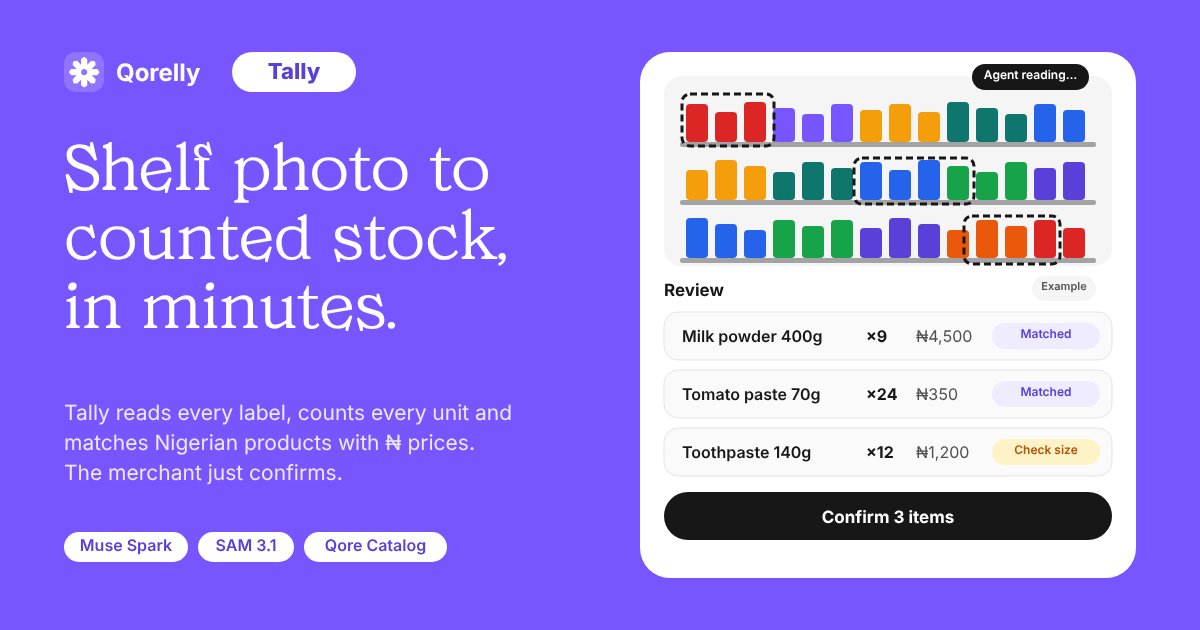
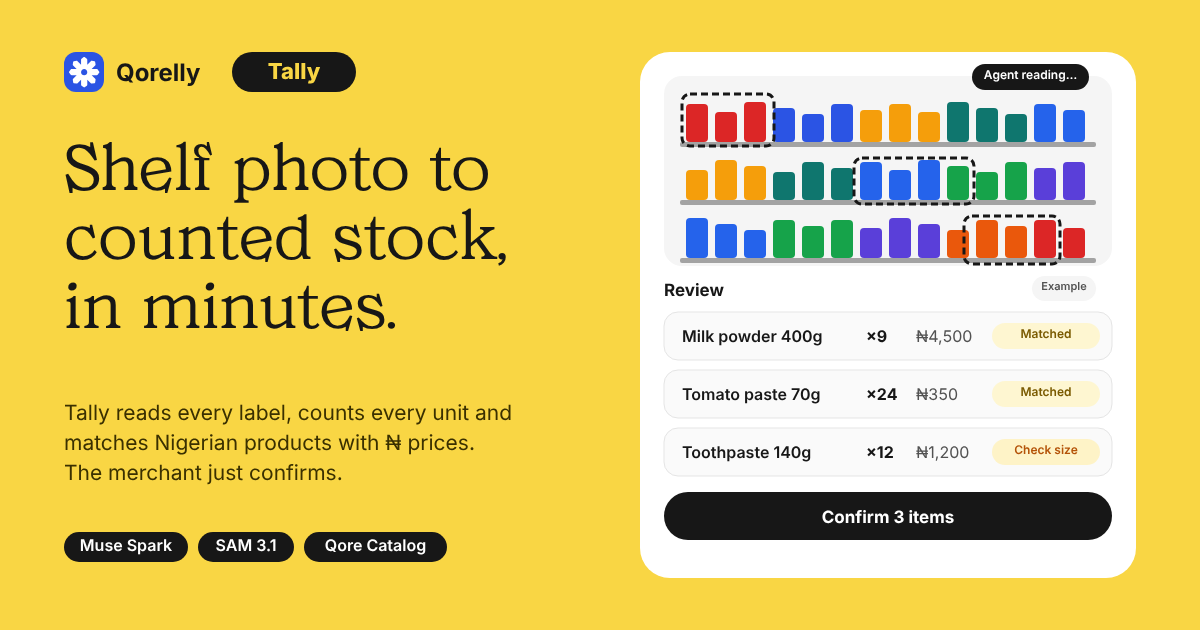
feat(mp): sunflower brand colour with primary-ink for text and rings

diff --git a/apps/mp/app/_components/tally-loader.tsx b/apps/mp/app/_components/tally-loader.tsx
@@ -1,0 +1,79 @@
+/**
+ * Tally logo reveal and loader. CSS only, so it works in server components and loading.tsx.
+ * variant "reveal" draws the mark once (~1.9 s) and holds; "loop" keeps counting while you wait.
+ */
+const CSS = `.tl{display:inline-flex;align-items:center;gap:calc(var(--tl-size)*.28);--tl-size:56px}
+.tl svg{width:var(--tl-size);height:var(--tl-size);overflow:visible;display:block}
+.tl .tl-tile{transform-box:fill-box;transform-origin:center}
+.tl .tl-c,.tl .tl-s,.tl .tl-x{fill:none;stroke:var(--tl-glyph,#171717);stroke-linecap:round;stroke-linejoin:round;stroke-dasharray:1 2}
+.tl .tl-c{stroke-width:36}.tl .tl-s,.tl .tl-x{stroke-width:34}
+.tl .tl-cg{transform-box:view-box;transform-origin:256px 256px}
+.tl-word{font:800 calc(var(--tl-size)*.62)/1 Inter,ui-sans-serif,system-ui,sans-serif;letter-spacing:-.03em;color:var(--tl-ink,#171717)}
+.tl-word small{display:block;font-size:.3em;font-weight:600;letter-spacing:0;color:var(--tl-sub,#737373);margin-top:.35em}
+
+/* reveal: plays once and holds */
+.tl--reveal .tl-tile{animation:tl-pop .5s cubic-bezier(.23,1,.32,1) both,tl-bump .32s 1.55s cubic-bezier(.23,1,.32,1)}
+.tl--reveal .tl-c{animation:tl-draw .36s cubic-bezier(.23,1,.32,1) both}
+.tl--reveal .tl-c1{animation-delay:.28s}.tl--reveal .tl-c2{animation-delay:.33s}.tl--reveal .tl-c3{animation-delay:.38s}.tl--reveal .tl-c4{animation-delay:.43s}
+.tl--reveal .tl-s{animation:tl-draw .22s cubic-bezier(.33,1,.68,1) both}
+.tl--reveal .tl-s1{animation-delay:.72s}.tl--reveal .tl-s2{animation-delay:.84s}.tl--reveal .tl-s3{animation-delay:.96s}.tl--reveal .tl-s4{animation-delay:1.08s}
+.tl--reveal .tl-x{animation:tl-draw .3s 1.24s cubic-bezier(.33,1,.68,1) both}
+.tl--reveal .tl-word{animation:tl-word .5s 1.3s cubic-bezier(.23,1,.32,1) both}
+
+/* loop: tile and viewfinder stay, the count draws, strikes and resets */
+.tl--loop .tl-c{stroke-dashoffset:0}
+.tl--loop .tl-cg{animation:tl-focus 2.4s cubic-bezier(.23,1,.32,1) infinite}
+.tl--loop .tl-s,.tl--loop .tl-x{animation:tl-count 2.4s cubic-bezier(.33,1,.68,1) infinite}
+.tl--loop .tl-s1{animation-delay:0s}.tl--loop .tl-s2{animation-delay:.12s}.tl--loop .tl-s3{animation-delay:.24s}.tl--loop .tl-s4{animation-delay:.36s}
+.tl--loop .tl-x{animation-name:tl-strike}
+
+@keyframes tl-pop{from{opacity:0;transform:scale(.6)}to{opacity:1;transform:scale(1)}}
+@keyframes tl-bump{50%{transform:scale(1.06)}}
+@keyframes tl-draw{0%{opacity:0;stroke-dashoffset:1}1%{opacity:1}100%{opacity:1;stroke-dashoffset:0}}
+@keyframes tl-word{from{opacity:0;transform:translateX(-.25em)}to{opacity:1;transform:none}}
+@keyframes tl-count{0%{opacity:0;stroke-dashoffset:1}1%{opacity:1;stroke-dashoffset:1}10%{stroke-dashoffset:0}72%{opacity:1;stroke-dashoffset:0}84%,100%{opacity:0;stroke-dashoffset:0}}
+@keyframes tl-strike{0%,22%{opacity:0;stroke-dashoffset:1}23%{opacity:1;stroke-dashoffset:1}34%{stroke-dashoffset:0}72%{opacity:1;stroke-dashoffset:0}84%,100%{opacity:0;stroke-dashoffset:0}}
+@keyframes tl-focus{0%,30%{transform:scale(1)}38%{transform:scale(.93)}48%,100%{transform:scale(1)}}
+
+@media (prefers-reduced-motion:reduce){
+  .tl *{animation:none!important;opacity:1!important;stroke-dashoffset:0!important}
+}`;
+
+type Props = {
+  variant?: "reveal" | "loop";
+  /** Mark size in px. */
+  size?: number;
+  /** Show "Tally / by Qorelly" beside the mark. */
+  wordmark?: boolean;
+  /** Tile and stroke colours; defaults to sunflower #F9D644 with ink #171717. */
+  tile?: string;
+  glyph?: string;
+  label?: string;
+  className?: string;
+};
+
+export function TallyLoader({ variant = "loop", size = 56, wordmark = false, tile, glyph, label = "Loading Tally", className }: Props) {
+  const style = { "--tl-size": `${size}px`, ...(tile && { "--tl-tile": tile }), ...(glyph && { "--tl-glyph": glyph }) } as React.CSSProperties;
+  return (
+    <span role="status" aria-label={label} className={`tl tl--${variant}${className ? ` ${className}` : ""}`} style={style}>
+      <style href="tally-loader" precedence="default">{CSS}</style>
+      <svg viewBox="0 0 512 512" aria-hidden>
+        <rect className="tl-tile" width="512" height="512" rx="112" fill="var(--tl-tile, #F9D644)" /><g className="tl-cg"><path className="tl-c tl-c1" d="M92 172L92 92L172 92" pathLength="1" /><path className="tl-c tl-c2" d="M340 92L420 92L420 172" pathLength="1" /><path className="tl-c tl-c3" d="M92 340L92 420L172 420" pathLength="1" /><path className="tl-c tl-c4" d="M340 420L420 420L420 340" pathLength="1" /></g><line className="tl-s tl-s1" x1="175" y1="170" x2="175" y2="342" pathLength="1" /><line className="tl-s tl-s2" x1="229" y1="170" x2="229" y2="342" pathLength="1" /><line className="tl-s tl-s3" x1="283" y1="170" x2="283" y2="342" pathLength="1" /><line className="tl-s tl-s4" x1="337" y1="170" x2="337" y2="342" pathLength="1" /><line className="tl-x" x1="142.6" y1="307.6" x2="369.4" y2="204.4" pathLength="1" />
+      </svg>
+      {wordmark && (
+        <span className="tl-word" aria-hidden>
+          Tally<small>by Qorelly</small>
+        </span>
+      )}
+    </span>
+  );
+}
+
+/** Full-screen splash for app boot or route loading. */
+export function TallyLoaderScreen({ label = "Loading Tally" }: { label?: string }) {
+  return (
+    <div className="flex min-h-dvh items-center justify-center">
+      <TallyLoader variant="loop" size={64} label={label} />
+    </div>
+  );
+}

diff --git a/packages/ui/src/v2-kit.tsx b/packages/ui/src/v2-kit.tsx
@@ -76,7 +76,7 @@ export function FilterChip({
       {...props}
       className={cn(
         "flex h-10 shrink-0 items-center gap-2 whitespace-nowrap rounded-xl px-4 text-sm font-medium transition-[color,background-color,transform] duration-150 ease-out active:scale-[0.97]",
-        active ? "bg-primary-light text-primary" : "bg-gray-100 text-gray-700 hover:bg-gray-200",
+        active ? "bg-primary-light text-primary-ink" : "bg-gray-100 text-gray-700 hover:bg-gray-200",
         className,
       )}
     >
@@ -85,7 +85,7 @@ export function FilterChip({
         <span
           className={cn(
             "inline-flex h-5 min-w-5 items-center justify-center rounded-full px-1.5 text-[11px] font-semibold tabular-nums",
-            active ? "bg-surface text-primary" : "bg-primary-light text-primary",
+            active ? "bg-surface text-primary-ink" : "bg-primary-light text-primary-ink",
           )}
         >
           {count}
@@ -227,7 +227,7 @@ export function QuantityStepper({
         onClick={() => onChange(Math.min(max, value + 1))}
         className={cn(
           h,
-          "flex items-center justify-center rounded-xl text-primary transition-[background-color,transform] duration-150 hover:bg-primary-light active:scale-90 disabled:opacity-30 disabled:hover:bg-transparent",
+          "flex items-center justify-center rounded-xl text-primary-ink transition-[background-color,transform] duration-150 hover:bg-primary-light active:scale-90 disabled:opacity-30 disabled:hover:bg-transparent",
         )}
       >
         <SolarIcon name="Add-Circle" size={18} />
@@ -246,7 +246,7 @@ export function ChoiceMark({ checked, multiple = false }: { checked: boolean; mu
       className={cn(
         "flex h-5 w-5 shrink-0 items-center justify-center border transition-colors",
         multiple ? "rounded-md" : "rounded-full",
-        checked ? "border-primary bg-primary text-white" : "border-gray-300 bg-surface dark:border-gray-400",
+        checked ? "border-primary bg-primary text-primary-foreground" : "border-gray-300 bg-surface dark:border-gray-400",
       )}
     >
       {checked && (
@@ -288,8 +288,8 @@ export function ChoiceCard({
       disabled={disabled}
       onClick={onClick}
       className={cn(
-        "flex w-full items-center gap-3 rounded-[14px] border p-3 text-left transition-[background-color,border-color,transform] duration-150 ease-out active:scale-[0.99] focus-visible:outline-none focus-visible:ring-2 focus-visible:ring-primary/40 disabled:cursor-not-allowed disabled:opacity-50",
-        selected ? "border-primary bg-primary-light" : "border-gray-200 bg-surface hover:bg-gray-50",
+        "flex w-full items-center gap-3 rounded-[14px] border p-3 text-left transition-[background-color,border-color,transform] duration-150 ease-out active:scale-[0.99] focus-visible:outline-none focus-visible:ring-2 focus-visible:ring-primary-ink/40 disabled:cursor-not-allowed disabled:opacity-50",
+        selected ? "border-primary-ink bg-primary-light" : "border-gray-200 bg-surface hover:bg-gray-50",
         !media && "px-4",
         className,
       )}
@@ -312,7 +312,7 @@ export function IconTile({ icon, active = false, className }: { icon: SolarIconN
       aria-hidden
       className={cn(
         "flex h-11 w-11 shrink-0 items-center justify-center rounded-full transition-colors",
-        active ? "bg-primary text-white" : "bg-gray-100 text-gray-700",
+        active ? "bg-primary text-primary-foreground" : "bg-gray-100 text-gray-700",
         className,
       )}
     >
@@ -345,7 +345,7 @@ export function StepHeader({
         {onBack && <IconButton icon="Alt-Arrow-Left" label="Back" tone="ghost" onClick={onBack} className="-ml-2" />}
         {step != null && steps && steps.length > 1 && (
           <>
-            <span className="shrink-0 rounded-full bg-primary-light px-3 py-1.5 text-xs font-semibold text-primary">
+            <span className="shrink-0 rounded-full bg-primary-light px-3 py-1.5 text-xs font-semibold text-primary-ink">
               Step {step} of {steps.length}
             </span>
             <span className="min-w-0 truncate text-xs text-gray-500 max-sm:hidden">{steps.join(" → ")}</span>
@@ -453,7 +453,7 @@ export function Notice({
   const t = {
     gray: ["bg-gray-100 text-gray-600", "text-gray-900"],
     amber: ["bg-amber-50 text-amber-900", "text-amber-700"],
-    brand: ["bg-primary-light text-gray-700", "text-primary"],
+    brand: ["bg-primary-light text-gray-700", "text-primary-ink"],
   }[tone];
   return (
     <div className={cn("flex items-start gap-2.5 rounded-[18px] px-4 py-3 text-sm", t[0], className)}>

diff --git a/apps/mp/app/stocktake/recents.tsx b/apps/mp/app/stocktake/recents.tsx
@@ -75,7 +75,7 @@ export function RecentsList({
           newActive ? "bg-surface text-gray-900 ring-1 ring-hairline/[0.06]" : "text-gray-600 hover:bg-gray-200/60 hover:text-gray-900",
         )}
       >
-        <SolarIcon name="Add-Circle" iconStyle={newActive ? "Fill" : "Outline"} size={20} className={newActive ? "text-primary" : undefined} />
+        <SolarIcon name="Add-Circle" iconStyle={newActive ? "Fill" : "Outline"} size={20} className={newActive ? "text-primary-ink" : undefined} />
         Take new stock
       </Link>
 
@@ -127,7 +127,7 @@ export function RecentsList({
                       </span>
                     </span>
                     {/* Only the states that need the merchant get a mark. */}
-                    {e.status === "running" && <span aria-label="Running" className="mt-1.5 size-2 shrink-0 animate-pulse rounded-full bg-primary" />}
+                    {e.status === "running" && <span aria-label="Running" className="mt-1.5 size-2 shrink-0 animate-pulse rounded-full bg-primary-ink" />}
                     {e.status === "review" && (e.lines ?? 0) > 0 && <span aria-label="Ready to review" className="mt-1.5 size-2 shrink-0 rounded-full bg-amber-500" />}
                     {e.status === "failed" && <span aria-label="Failed" className="mt-1.5 size-2 shrink-0 rounded-full bg-red-500" />}
                     {e.status === "confirmed" && <span aria-label="Confirmed" className="mt-1.5 size-2 shrink-0 rounded-full bg-emerald-500" />}

diff --git a/packages/ui/src/button.tsx b/packages/ui/src/button.tsx
@@ -10,8 +10,8 @@ const buttonVariants = cva(
   {
     variants: {
       variant: {
-        primary: "bg-primary text-white hover:bg-primary-hover",
-        default: "bg-primary text-white hover:bg-primary-hover",
+        primary: "bg-primary text-primary-foreground hover:bg-primary-hover",
+        default: "bg-primary text-primary-foreground hover:bg-primary-hover",
         quiet: "bg-surface text-gray-900 shadow-[0_1px_2px_rgba(0,0,0,0.04)] ring-1 ring-hairline/[0.06] hover:bg-gray-50",
         outline: "bg-surface text-gray-900 shadow-[0_1px_2px_rgba(0,0,0,0.04)] ring-1 ring-hairline/[0.06] hover:bg-gray-50",
         soft: "bg-gray-100 text-gray-900 hover:bg-gray-200",
@@ -20,7 +20,7 @@ const buttonVariants = cva(
         dark: "bg-gray-900 text-surface hover:bg-gray-800",
         ghost: "text-gray-600 hover:bg-gray-100 hover:text-gray-900",
         destructive: "bg-red-600 text-white hover:bg-red-700 dark:bg-red-500 dark:hover:bg-red-600",
-        link: "text-primary underline-offset-4 hover:underline active:scale-100",
+        link: "text-primary-ink underline-offset-4 hover:underline active:scale-100",
       },
       size: {
         sm: "h-8 rounded-lg px-3 text-[13px]",

diff --git a/apps/mp/app/onboarding/_components/starter-items.tsx b/apps/mp/app/onboarding/_components/starter-items.tsx
@@ -296,7 +296,7 @@ export function StarterLoading() {
   return (
     <div aria-busy="true">
       <div className="mb-4 flex items-center gap-3 rounded-[14px] bg-gray-100 px-4 py-3 text-[13px] text-gray-600">
-        <QorellyLoader className="h-5 w-5 shrink-0 text-primary" />
+        <QorellyLoader className="h-5 w-5 shrink-0 text-primary-ink" />
         Finding products shops like yours stock. This takes a few seconds the first time.
       </div>
       <div className="space-y-4">
@@ -345,7 +345,7 @@ export function StarterDone({ businessName, result }: { businessName: string; re
   const added = result.created + result.skipped;
   return (
     <div className="q-rise flex flex-col items-center py-10 text-center sm:py-16">
-      <span className="flex h-16 w-16 items-center justify-center rounded-full bg-primary-light text-primary">
+      <span className="flex h-16 w-16 items-center justify-center rounded-full bg-primary-light text-primary-ink">
         <SolarIcon name="Check-Circle" iconStyle="Bold" size={32} />
       </span>
       <h1 className="mt-6 text-[24px] font-medium leading-tight tracking-tight text-gray-900 sm:text-[28px]">{businessName} is ready</h1>

diff --git a/apps/mp/app/onboarding/_components/onboarding-shell.tsx b/apps/mp/app/onboarding/_components/onboarding-shell.tsx
@@ -34,7 +34,7 @@ export function OnboardingShell({
         <div className="mx-auto flex h-16 max-w-[680px] items-center gap-3 px-4 sm:px-6">
           <TallyMark className="h-8 w-8" />
           <span
-            className="shrink-0 rounded-full bg-primary-light px-3 py-1.5 text-xs font-semibold text-primary"
+            className="shrink-0 rounded-full bg-primary-light px-3 py-1.5 text-xs font-semibold text-primary-ink"
             role="progressbar"
             aria-valuemin={1}
             aria-valuemax={ONBOARDING_STEPS.length}
@@ -101,7 +101,7 @@ export function StepHeading({ title, subtitle }: { title: string; subtitle: stri
 export function SavingScreen({ message }: { message: string }) {
   return (
     <div className="q-fade-in flex min-h-dvh flex-col items-center justify-center gap-4 bg-surface px-6 text-center">
-      <QorellyLoader className="h-8 w-8 text-primary" />
+      <QorellyLoader className="h-8 w-8 text-primary-ink" />
       <div>
         <p className="text-[15px] font-medium text-gray-900">{message}</p>
         <p className="mt-1 text-[13px] text-gray-500">This takes a few seconds. Keep this page open.</p>

diff --git a/packages/ui/src/theme.css b/packages/ui/src/theme.css
@@ -14,11 +14,13 @@
   --color-surface: #ffffff;
   --color-hairline: #000000;
 
-  --color-primary: #7856ff;
-  --color-primary-foreground: #ffffff;
-  --color-primary-hover: #6b4de6;
-  --color-primary-light: #f0ecff;
-  --color-primary-dark: #5a3fd9;
+  /* Sunflower is a fill only. Brand text, lines and rings on a light surface use primary-ink. */
+  --color-primary: #f9d644;
+  --color-primary-foreground: #171717;
+  --color-primary-hover: #f0c925;
+  --color-primary-light: #fef6d1;
+  --color-primary-dark: #c9a800;
+  --color-primary-ink: #7a5a00;
 
   --color-secondary: hsl(0 0% 96.1%);
   --color-secondary-foreground: hsl(0 0% 9%);
@@ -124,6 +126,7 @@
   --tone-violet-ink: rgb(196 181 253);
   /* The pale brand tint (chips, selected rows) becomes a deep wash of it. */
   --color-primary-light: color-mix(in srgb, var(--color-primary) 24%, rgb(31 31 34));
+  --color-primary-ink: #f9d644;
 
   --color-red-50: rgb(239 68 68 / 0.14);
   --color-red-100: rgb(239 68 68 / 0.14);

diff --git a/apps/mp/app/_components/nav-links.tsx b/apps/mp/app/_components/nav-links.tsx
@@ -32,7 +32,7 @@ export function SidebarNav() {
               on ? "bg-surface text-gray-900 ring-1 ring-hairline/[0.06] dark:ring-hairline/10" : "text-gray-600 hover:bg-gray-200/60 hover:text-gray-900",
             )}
           >
-            <SolarIcon name={item.icon} iconStyle={on ? "Fill" : "Outline"} size={20} className={on ? "text-primary" : undefined} />
+            <SolarIcon name={item.icon} iconStyle={on ? "Fill" : "Outline"} size={20} className={on ? "text-primary-ink" : undefined} />
             {item.label}
           </Link>
         );
@@ -66,7 +66,7 @@ export function MobileNav() {
                 name={item.icon}
                 iconStyle={on ? "Fill" : "Outline"}
                 size={18}
-                className={cn("max-[479px]:hidden", on && "text-primary")}
+                className={cn("max-[479px]:hidden", on && "text-primary-ink")}
               />
               {item.label}
             </span>

diff --git a/apps/mp/app/stocktake/product-picker.tsx b/apps/mp/app/stocktake/product-picker.tsx
@@ -241,7 +241,7 @@ function Option({
       aria-pressed={selected}
       className={cn(
         "flex w-full items-center gap-3 rounded-xl p-2 text-left transition-colors",
-        selected ? "bg-primary-light/60 ring-1 ring-primary" : "hover:bg-gray-50",
+        selected ? "bg-primary-light/60 ring-1 ring-primary-ink" : "hover:bg-gray-50",
       )}
     >
       <span className="flex h-11 w-11 shrink-0 items-center justify-center overflow-hidden rounded-[10px] bg-gray-100 text-gray-400 ring-1 ring-hairline/[0.05]">
@@ -273,7 +273,7 @@ function Option({
               {MATCH_PILL[match].label}
             </Pill>
           )}
-          {selected && <SolarIcon name="Check-Circle" iconStyle="Fill" size={18} className="shrink-0 text-primary" />}
+          {selected && <SolarIcon name="Check-Circle" iconStyle="Fill" size={18} className="shrink-0 text-primary-ink" />}
         </>
       )}
     </button>

diff --git a/apps/mp/app/_home/business-list.tsx b/apps/mp/app/_home/business-list.tsx
@@ -64,7 +64,7 @@ export function BusinessList({ businesses }: { businesses: BusinessSummary[] | n
                   {/* The whole row opens the business's inventory; the stock-take button sits above the stretched link. */}
                   <Link
                     href={`/inventory?business=${b.id}`}
-                    className="line-clamp-2 break-words rounded-sm text-[15px] font-medium text-gray-900 outline-none after:absolute after:inset-0 after:content-[''] focus-visible:after:ring-2 focus-visible:after:ring-inset focus-visible:after:ring-primary"
+                    className="line-clamp-2 break-words rounded-sm text-[15px] font-medium text-gray-900 outline-none after:absolute after:inset-0 after:content-[''] focus-visible:after:ring-2 focus-visible:after:ring-inset focus-visible:after:ring-primary-ink"
                   >
                     {b.name}
                   </Link>

diff --git a/apps/mp/proxy.ts b/apps/mp/proxy.ts
@@ -1,7 +1,7 @@
 import { NextResponse } from "next/server";
 import { auth } from "@/auth";
 
-// Everything except the login page, NextAuth's own routes, the icons and the share image needs a session.
+// Everything except the login page, NextAuth's own routes, the icons, the mark and the share image needs a session.
 // /design (the V2 kit and page previews, fixture data only) is open outside production.
 export default auth((req) => {
   if (process.env.NODE_ENV !== "production" && req.nextUrl.pathname.startsWith("/design")) return;
@@ -13,5 +13,5 @@ export default auth((req) => {
 });
 
 export const config = {
-  matcher: ["/((?!login|api/auth|_next/static|_next/image|favicon.ico|icon\\.svg|apple-icon\\.png|og\\.png).*)"],
+  matcher: ["/((?!login|api/auth|_next/static|_next/image|favicon.ico|icon\\.svg|apple-icon\\.png|og\\.png|tally-mark\\.svg).*)"],
 };

diff --git a/packages/ui/src/checkbox.tsx b/packages/ui/src/checkbox.tsx
@@ -12,7 +12,7 @@ const Checkbox = React.forwardRef<
   <CheckboxPrimitive.Root
     ref={ref}
     className={cn(
-      "peer h-5 w-5 shrink-0 rounded-md border border-gray-300 bg-surface transition-colors focus-visible:outline-none focus-visible:ring-2 focus-visible:ring-primary/40 dark:border-gray-400 disabled:cursor-not-allowed disabled:opacity-50 data-[state=checked]:border-primary data-[state=checked]:bg-primary data-[state=checked]:text-white",
+      "peer h-5 w-5 shrink-0 rounded-md border border-gray-300 bg-surface transition-colors focus-visible:outline-none focus-visible:ring-2 focus-visible:ring-primary-ink/40 dark:border-gray-400 disabled:cursor-not-allowed disabled:opacity-50 data-[state=checked]:border-primary data-[state=checked]:bg-primary data-[state=checked]:text-primary-foreground",
       className,
     )}
     {...props}
